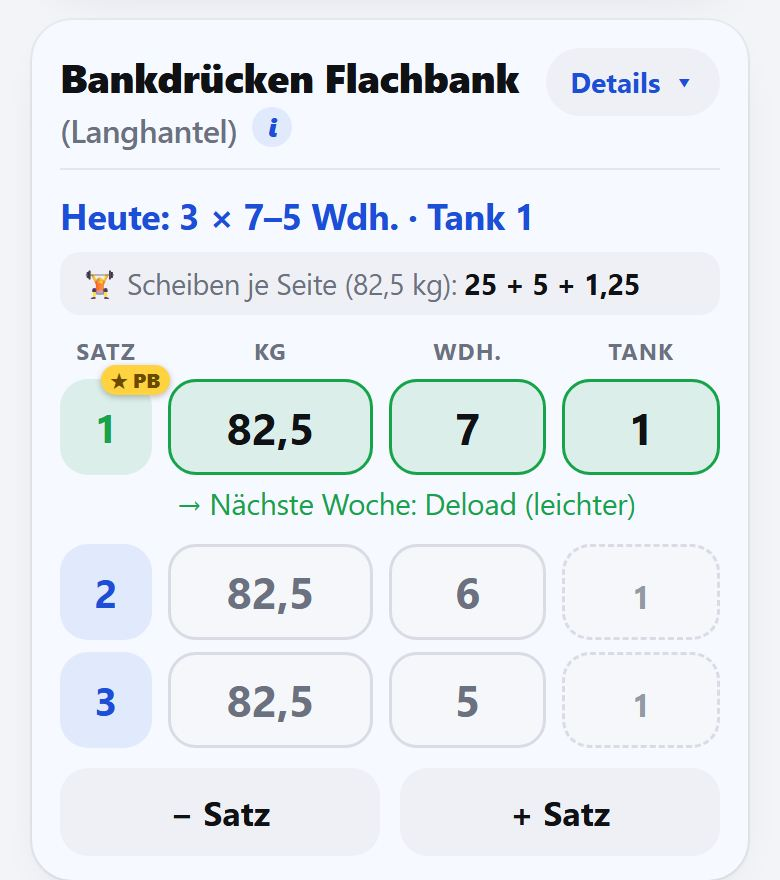
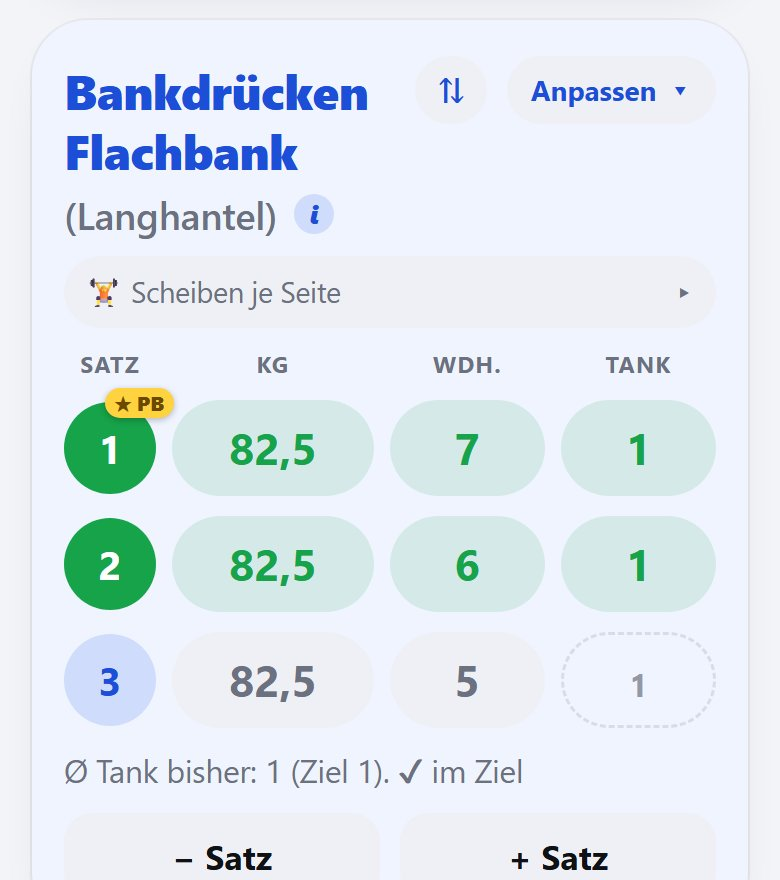
Add files via upload

diff --git a/lang-en.js b/lang-en.js
@@ -3380,6 +3380,7 @@ Object.assign(I18N.en, {
 "Muskelgruppe hinzufügen": "Add muscle group",
 "Muskelgruppen, die mehrmals pro Woche dran sind, trainierst du einmal im niedrigen und einmal im hohen Wdh.-Bereich.": "Muscle groups trained several times a week are trained once in the low and once in the high rep range.",
 "Muskeln aufbauen mit einem kleinen Kalorienüberschuss.": "Build muscle with a small calorie surplus.",
+"Muskeln bekommen ihren Wachstumsreiz über zwei Stellschrauben: das <b>Volumen</b>, also wie viele Arbeitssätze eine Muskelgruppe pro Woche bekommt, und die <b>Intensität</b>, also wie nah du in jedem Satz ans Muskelversagen gehst, also wie viele Wiederholungen noch „im Tank“ bleiben (RIR). Beides lässt sich gegeneinander tauschen: Mehr Sätze mit etwas mehr Luft wirken ähnlich wie weniger Sätze, die dafür härter sind. Wähle, was besser zu deiner Zeit, deiner Erholung und deinem Gefühl im Training passt.": "Muscles get their growth stimulus via two levers: <b>volume</b>, i.e. how many working sets a muscle group gets per week, and <b>intensity</b>, i.e. how close to failure you go in each set, i.e. how many reps stay “in the tank” (RIR). The two can be traded against each other: more sets with a bit more in reserve work similarly to fewer sets that are harder. Choose what fits your time, your recovery and how you feel in training.",
 "Muskeln wachsen über zwei Stellschrauben: das <b>Volumen</b>, also wie viele Arbeitssätze eine Muskelgruppe pro Woche bekommt, und die <b>Intensität</b>, also wie nah du in jedem Satz ans Muskelversagen gehst, also wie viele Wiederholungen noch „im Tank“ bleiben (RIR). Beides lässt sich gegeneinander tauschen: Mehr Sätze mit etwas mehr Luft wirken ähnlich wie weniger Sätze, die dafür härter sind. Wähle, was besser zu deiner Zeit, deiner Erholung und deinem Gefühl im Training passt.": "Muscles grow via two levers: <b>volume</b>, i.e. how many working sets a muscle group gets per week, and <b>intensity</b>, i.e. how close to failure you go in each set, i.e. how many reps stay “in the tank” (RIR). The two can be traded against each other: more sets with a bit more in reserve work similarly to fewer sets that are harder. Choose what fits your time, your recovery and how you feel in training.",
 "Myo": "Myo",
 "Myo-Satz:": "Myo set:",
@@ -5438,8 +5439,12 @@ Object.assign(I18N.en, {
 "{0} Wdh. | Tank {1}<br>{2} Wdh. | Tank {3}<br>{4} Wdh. | Tank {5}": "{0} reps | Tank {1}<br>{2} reps | Tank {3}<br>{4} reps | Tank {5}",
 "{0} Wdh. → {1} | Tank {2} | Reduktion": "{0} reps → {1} | Tank {2} | Drop set",
 "{0} Woche Aufbau, {1} Trainings und {2} Std. Training. Das hast du in diesem Zyklus geschafft:": "{0} week of building, {1} workouts and {2} hrs of training. This is what you achieved in this cycle:",
+"{0} Woche Aufbau, {1} Trainings und {2} min Training. Das hast du in diesem Zyklus geschafft:": "{0} week of building, {1} workouts and {2} min of training. This is what you achieved in this cycle:",
+"{0} Woche Aufbau, {1} Trainings. Das hast du in diesem Zyklus geschafft:": "{0} week of building, {1} workouts. This is what you achieved in this cycle:",
 "{0} Wochen": "{0} weeks",
 "{0} Wochen Aufbau, {1} Trainings und {2} Std. Training. Das hast du in diesem Zyklus geschafft:": "{0} weeks of building, {1} workouts and {2} hrs of training. This is what you achieved in this cycle:",
+"{0} Wochen Aufbau, {1} Trainings und {2} min Training. Das hast du in diesem Zyklus geschafft:": "{0} weeks of building, {1} workouts and {2} min of training. This is what you achieved in this cycle:",
+"{0} Wochen Aufbau, {1} Trainings. Das hast du in diesem Zyklus geschafft:": "{0} weeks of building, {1} workouts. This is what you achieved in this cycle:",
 "{0} Wochen am Stück": "{0} weeks in a row",
 "{0} Wochen in Folge mit mindestens {1} Trainings": "{0} weeks in a row with at least {1} workouts",
 "{0} Wochen mit {1} Trainings": "{0} weeks with {1} workouts",

diff --git a/wizard.js b/wizard.js
@@ -1195,7 +1195,7 @@ function renderWizStyle() {
   const opt = (k, title, body) => `<button class="split-opt freq-opt int-opt ${wiz.style === k ? 'on' : ''}" data-action="wiz-style" data-k="${k}">
       <b>${title}</b><small>${body}</small></button>`;
   return wizCard('🎚', 'Mehr Volumen oder mehr Intensität?',
-    `Muskeln wachsen über zwei Stellschrauben: das <b>Volumen</b>, also wie viele Arbeitssätze eine Muskelgruppe pro Woche bekommt,
+    `Muskeln bekommen ihren Wachstumsreiz über zwei Stellschrauben: das <b>Volumen</b>, also wie viele Arbeitssätze eine Muskelgruppe pro Woche bekommt,
       und die <b>Intensität</b>, also wie nah du in jedem Satz ans Muskelversagen gehst, also wie viele Wiederholungen noch „im Tank“
       bleiben (RIR). Beides lässt sich gegeneinander tauschen: Mehr Sätze mit etwas mehr Luft wirken ähnlich wie weniger Sätze,
       die dafür härter sind. Wähle, was besser zu deiner Zeit, deiner Erholung und deinem Gefühl im Training passt.`,

diff --git a/app.js b/app.js
@@ -9807,7 +9807,7 @@ const INTRO = [
 function introHtml() {
   const i = welc.slide || 0, s = INTRO[i], last = i === INTRO.length - 1;
   return `<div class="intro">${i === 0 ? langPickHtml() : ''}
-      <div class="intro-shot"><img src="${s.img}" alt="Beispiel aus der App"></div>
+      <div class="intro-shot"><img src="${LANG === 'en' ? s.img.replace('.jpg', '-en.jpg') : s.img}" alt="Beispiel aus der App"></div>
       <h2 id="welcome-title">${s.h}</h2>
       <p>${s.p}</p>
       <div class="intro-dots" aria-hidden="true">${INTRO.map((_, k) => `<span class="${k === i ? 'on' : ''}"></span>`).join('')}</div>

diff --git a/sw.js b/sw.js
@@ -4,7 +4,7 @@
 // Wichtig: immer direkt vom Server laden (cache: 'reload' / 'no-cache'), nicht aus dem Browser-Zwischenspeicher –
 // GitHub Pages erlaubt dort 10 Minuten, sonst landen kurz nach einem Update noch alte Dateien im neuen Cache.
 
-const CACHE = 'trainingsapp-v299';
+const CACHE = 'trainingsapp-v301';
 const FILES = [
   './',
   './index.html',
@@ -48,6 +48,9 @@ const FILES = [
   './intro-1.jpg',
   './intro-2.jpg',
   './intro-3.jpg',
+  './intro-1-en.jpg',
+  './intro-2-en.jpg',
+  './intro-3-en.jpg',
 ];
 
 self.addEventListener('install', event => {
